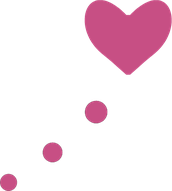
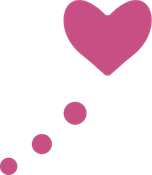
Porträt: ¾-Bogen, Punkte im gleichen Abstand wie das Kleeblatt, Herz eingerückt
Claude-Session: https://claude.ai/code/session_01JhNVo5gAi9s48sBdPoEAot

diff --git a/public/index.html b/public/index.html
@@ -177,7 +177,7 @@
   .portrait-wrap .portrait-ph{border-radius:50%;}
   .portrait-wrap::before,.portrait-wrap::after{content:"";position:absolute;background-size:contain;background-repeat:no-repeat;pointer-events:none;}
   .portrait-wrap::before{left:4px;bottom:4px;width:24px;height:24px;background-image:url('images/deko_kleeblatt.png?v=6');}
-  .portrait-wrap::after{right:0;top:0;width:43px;height:48px;background-image:url('images/deko_herz.png?v=6');}
+  .portrait-wrap::after{right:-6px;top:-40px;width:38px;height:44px;background-image:url('images/deko_herz.png?v=7');}
   .about h2{font-size:clamp(2rem,4vw,2.9rem);margin:14px 0 24px;}
   .about .q p{font-family:var(--disp);font-style:italic;font-size:clamp(1.2rem,1.9vw,1.5rem);color:var(--navy);line-height:1.45;margin-bottom:16px;}
   .about .q em{color:var(--pink);}
